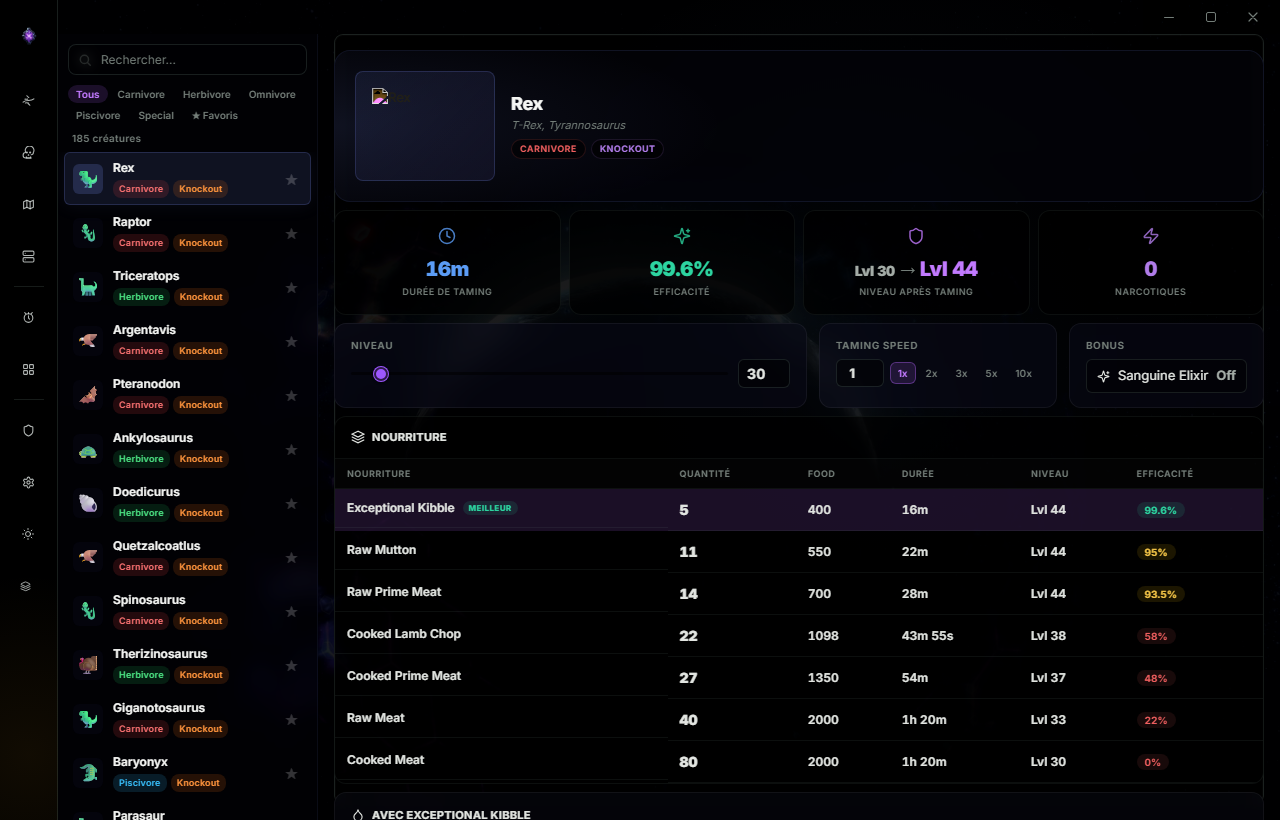
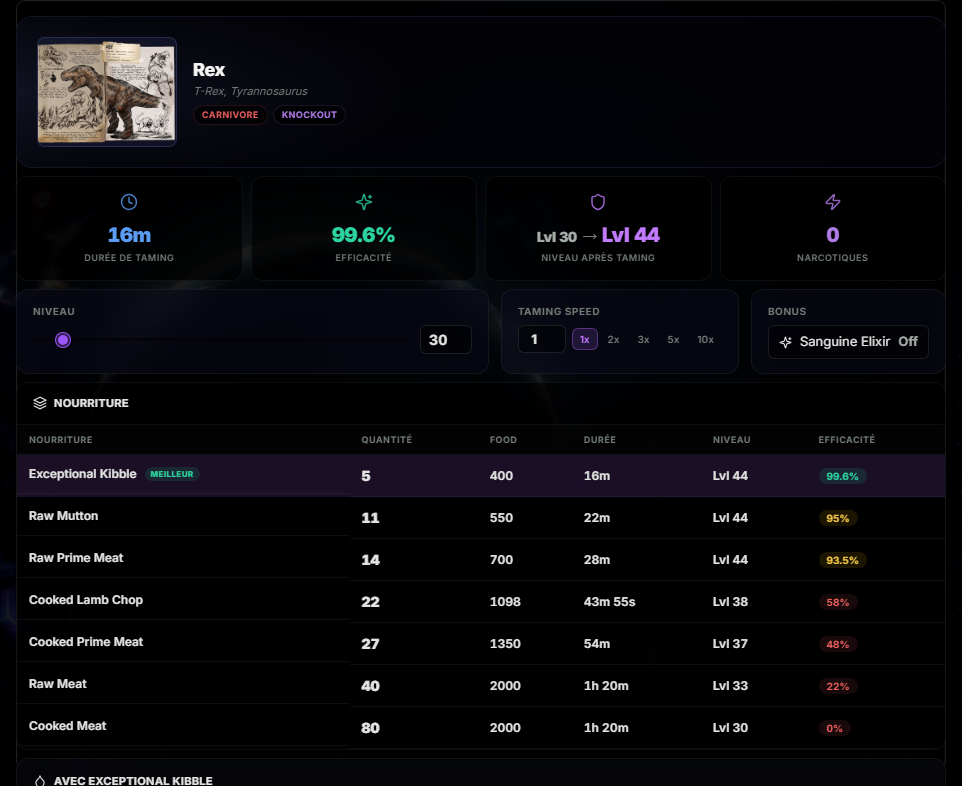
Clean up public screenshots and creature fallbacks

diff --git a/src/components/DinoDetail.jsx b/src/components/DinoDetail.jsx
@@ -32,11 +32,17 @@ const MULTIPLIER_PRESETS = [
 
 function DossierImage({ name }) {
   const urls = getCreatureImageFallbacks(name);
-  const [src, setSrc] = useState(urls[0]);
+  const localSrc = name === 'Rex' ? './creatures/wiki/rex-dossier.png' : '';
+  const [src, setSrc] = useState(localSrc || urls[0]);
   const [isIcon, setIsIcon] = useState(false);
   const triedRef = React.useRef(0);
 
   React.useEffect(() => {
+    if (localSrc) {
+      setSrc(localSrc);
+      setIsIcon(false);
+      return;
+    }
     triedRef.current = 0;
     setIsIcon(false);
     function tryLoad(i) {
@@ -47,7 +53,7 @@ function DossierImage({ name }) {
       img.src = urls[i];
     }
     tryLoad(0);
-  }, [name]);
+  }, [name, localSrc]);
 
   return (
     <div className="detail-hero-dossier">

diff --git a/src/components/Sidebar.jsx b/src/components/Sidebar.jsx
@@ -94,9 +94,8 @@ export default function Sidebar({ dinosaurs, selectedDino, onSelectDino, favorit
                   width={28}
                   height={28}
                   style={{ objectFit: 'contain' }}
-                  onError={(e) => { e.target.style.display = 'none'; e.target.nextSibling.style.display = 'inline'; }}
+                  onError={(e) => { e.currentTarget.src = './icon-128.png'; e.currentTarget.classList.add('fallback-app-icon'); }}
                 />
-                <span style={{ display: 'none' }}>{dino.icon}</span>
               </div>
               <div className="dino-info">
                 <div className="dino-name">{dino.name}</div>

diff --git a/src/styles/global.css b/src/styles/global.css
@@ -6861,6 +6861,10 @@ body {
 .detail-hero-icon img {
   filter: invert(1) brightness(1.8);
 }
+
+.dino-icon img.fallback-app-icon {
+  filter: none;
+}
 .dino-list-item.active .dino-icon { background: rgba(123,147,248,0.12); }
 
 .dino-info { flex: 1; min-width: 0; }
